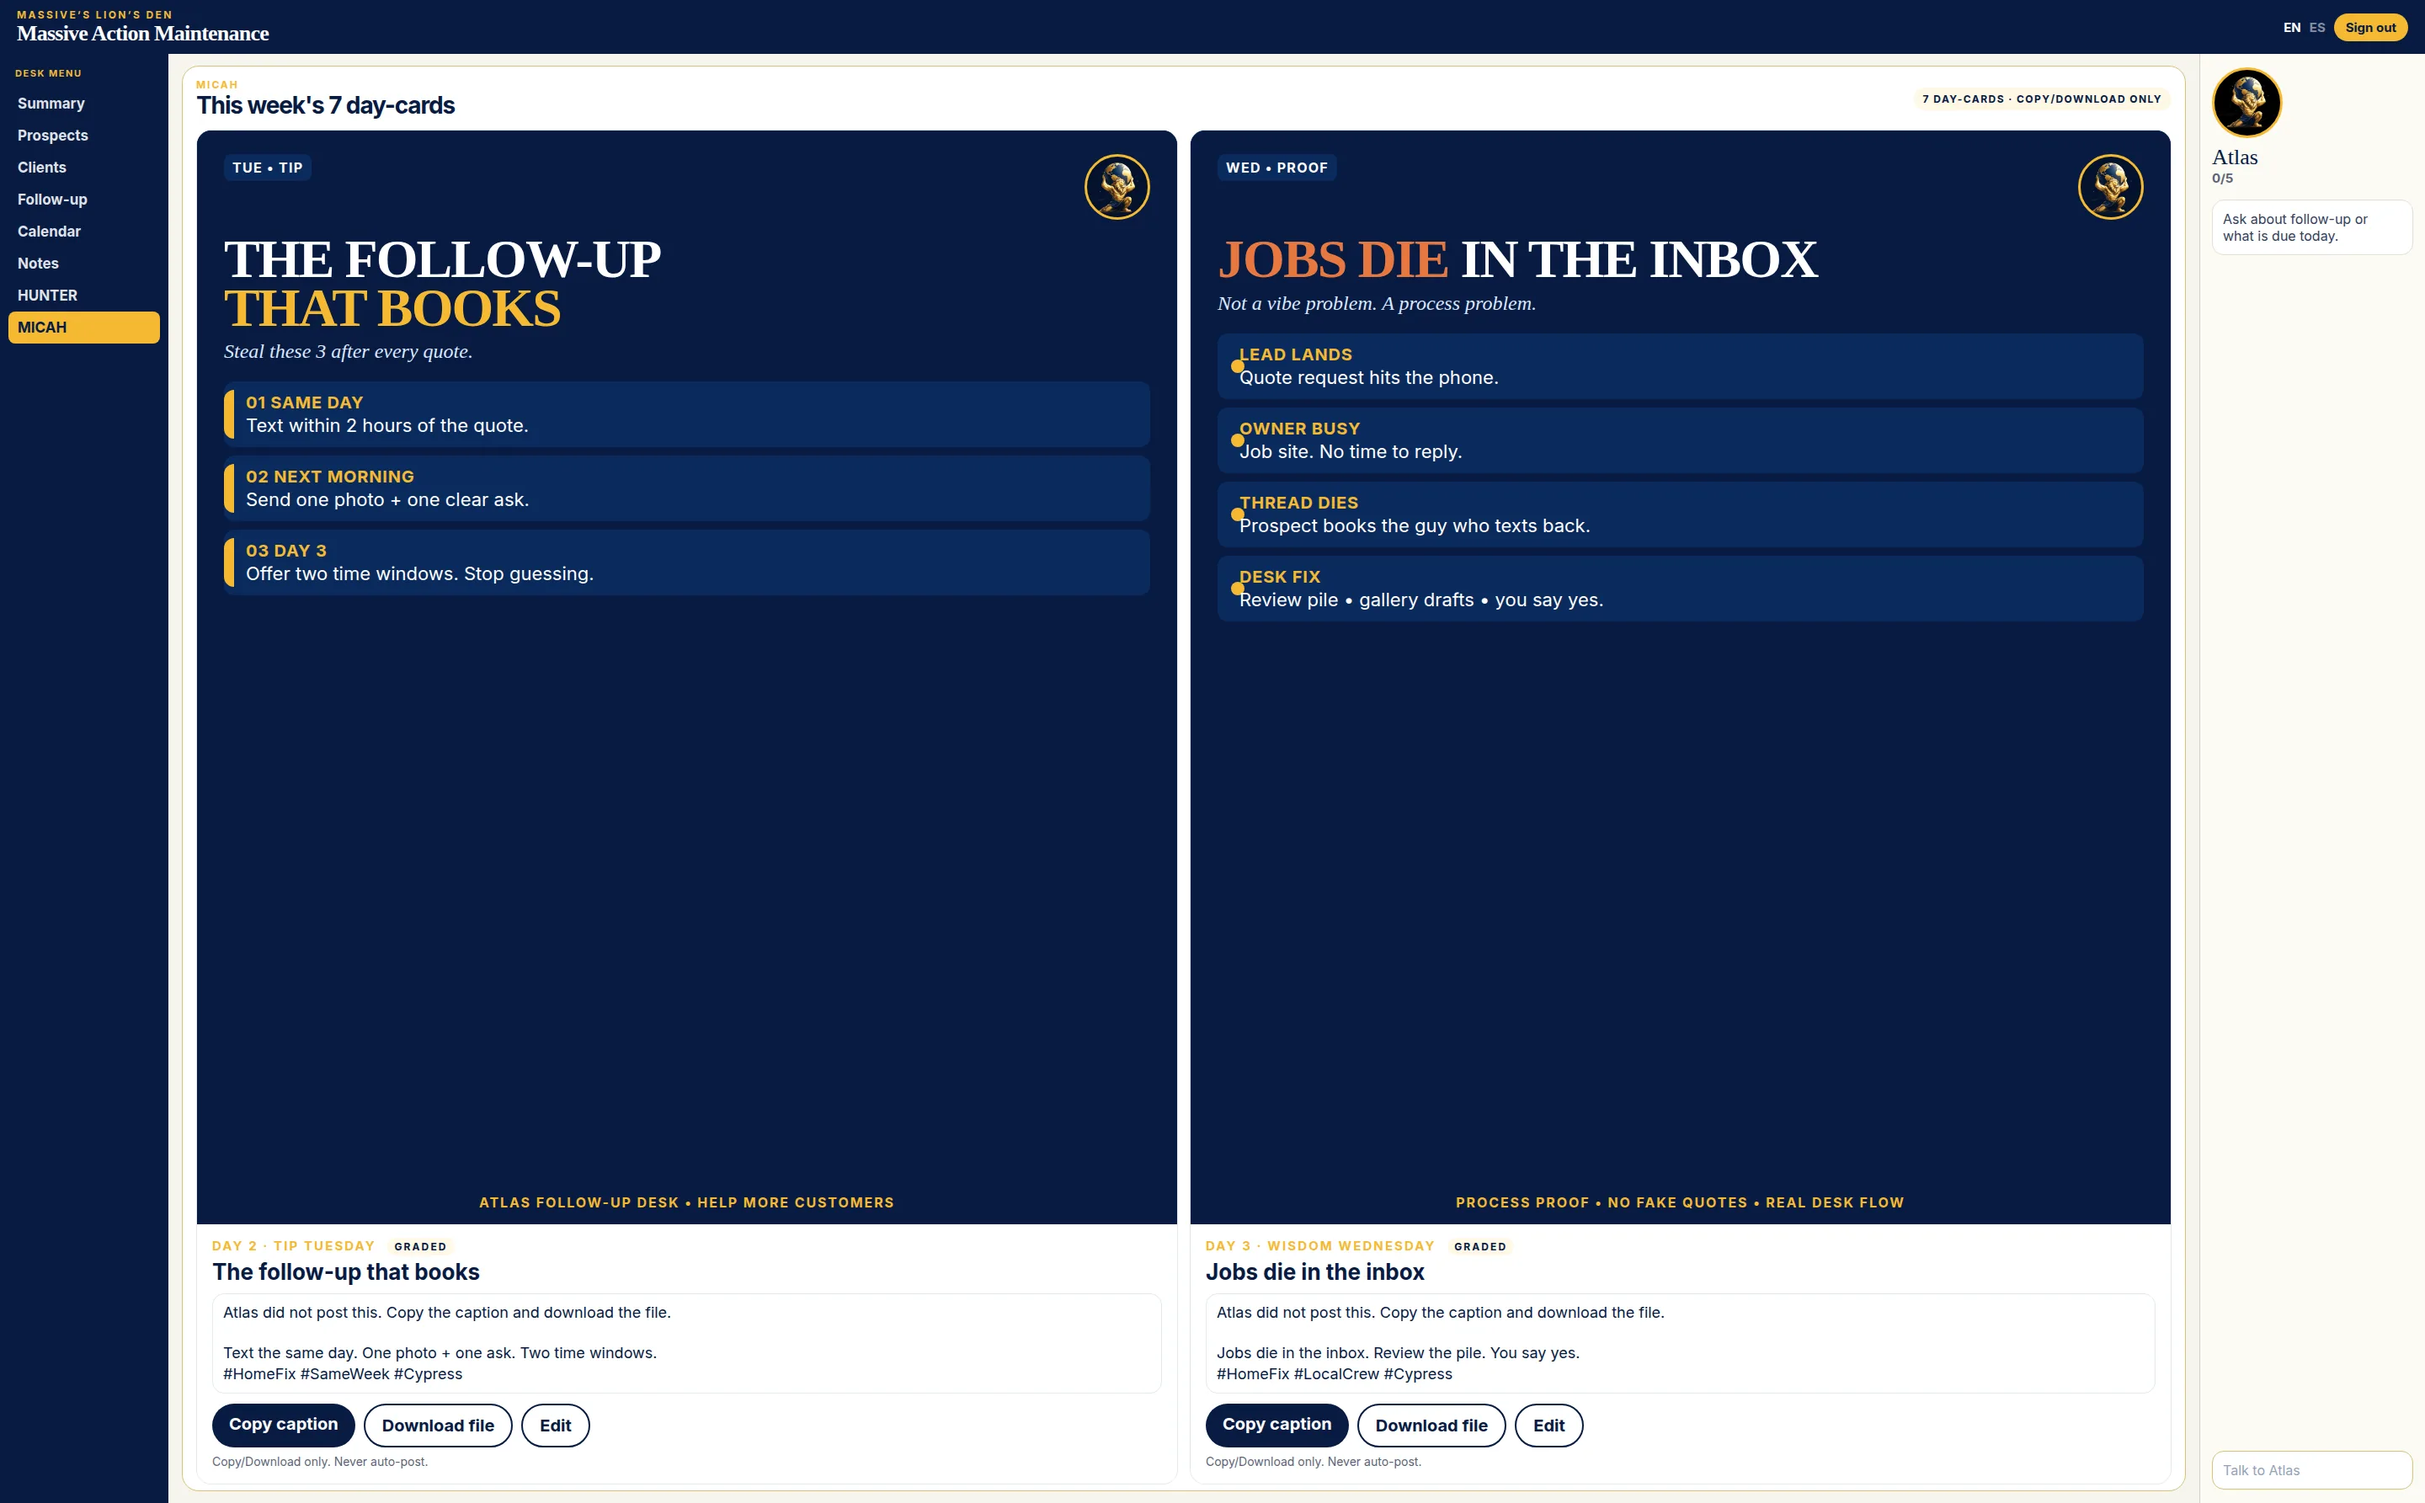
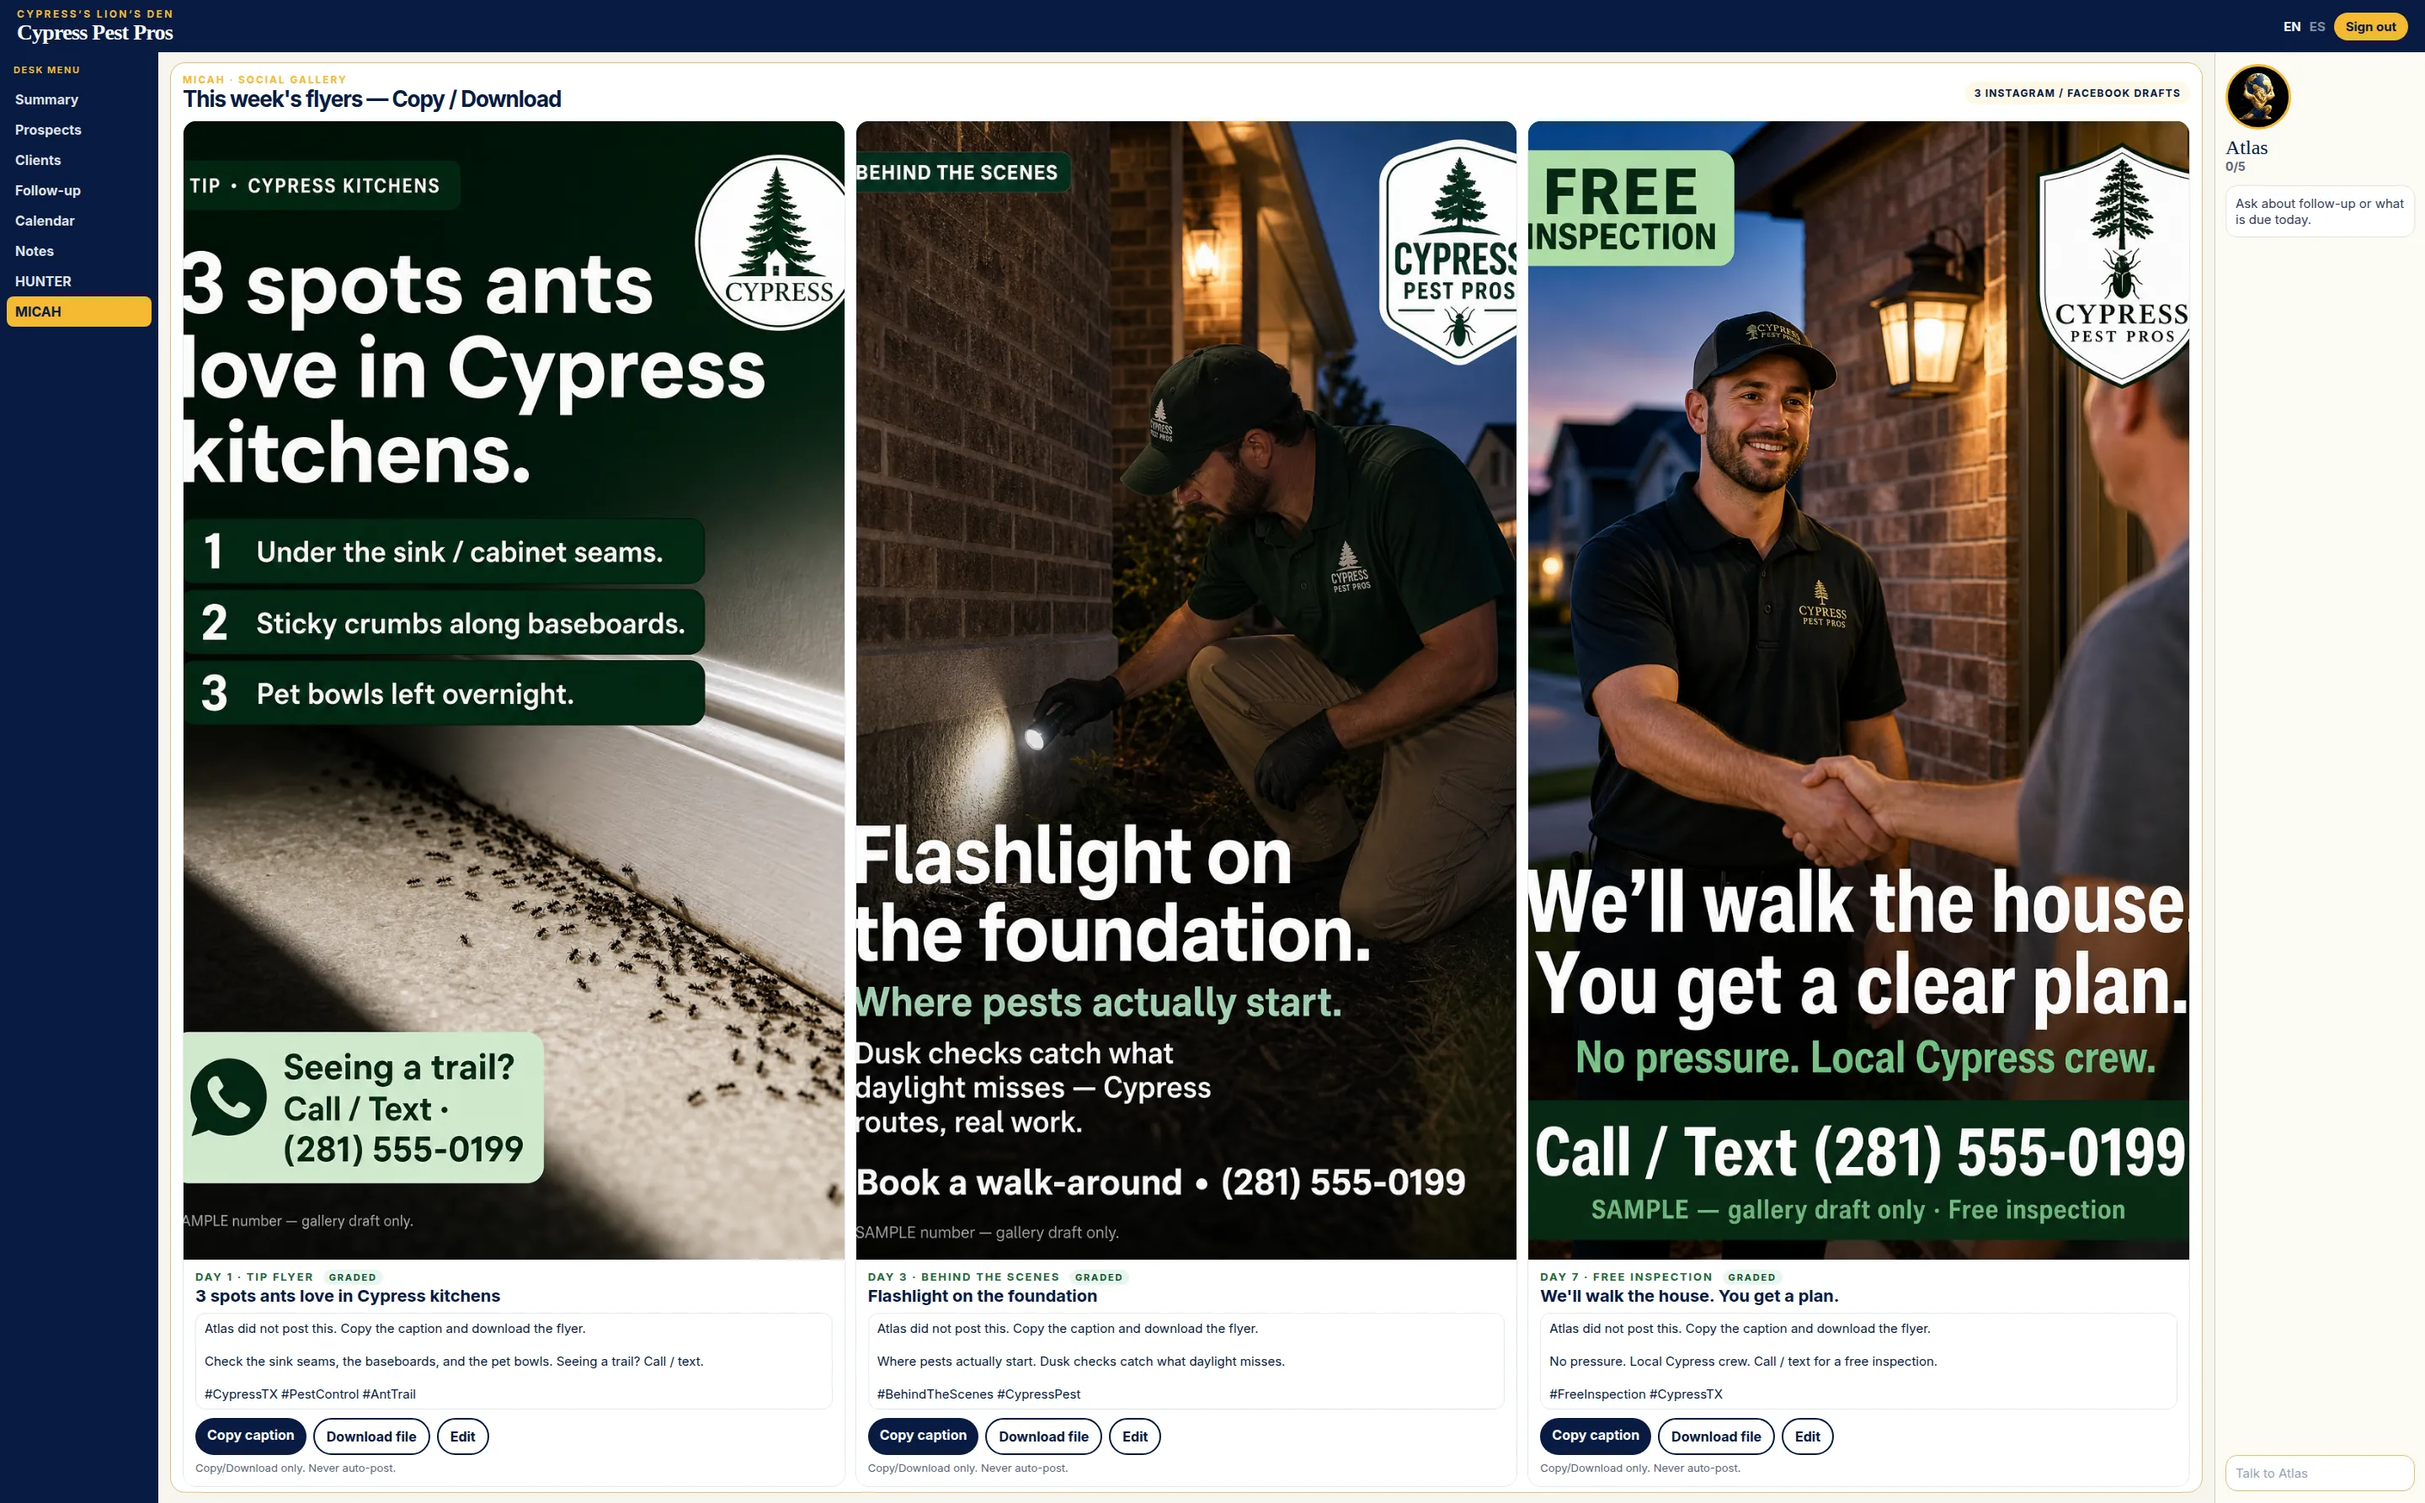
Redo MICAH teaser with Cypress Pest Pros social flyers
Founder hold: the prior still used CRM product tiles. The MICAH card
now frames three vertical Instagram/Facebook flyers (ants tip, foundation
BTS, free inspection) with captions and Copy/Download. HUNTER, Follow-up,
and CLIENT PANEL are unchanged.

diff --git a/src/components/atlas-homepage.test.ts b/src/components/atlas-homepage.test.ts
@@ -55,7 +55,7 @@ test("AFE homepage states Phone AI / Front Desk is later and not live", () => {
   assert.match(homepage, /Phone AI \/ Front Desk is later and not live/);
   assert.match(homepage, /HUNTER[\s\S]*leads to review/);
   assert.match(homepage, /you approve then send/);
-  assert.match(homepage, /gallery drafts only/);
+  assert.match(homepage, /social flyers only/);
   assert.doesNotMatch(homepage, /Phone AI is live|live Phone AI|Front Desk is live/i);
 });
 
@@ -100,11 +100,11 @@ test("AFE homepage shows three desk proof stills near #den without selling live 
   assert.match(stills, /\{still\.name\} — \{still\.label\}/);
   assert.match(homepage, /HUNTER[\s\S]*leads to review/);
   assert.match(homepage, /you approve then send/);
-  assert.match(homepage, /gallery drafts only/);
+  assert.match(homepage, /social flyers only/);
   assert.match(homepage, /Review pile/);
   assert.match(homepage, /Follow-up drafts you approve/);
-  assert.match(homepage, /gallery Copy\/Download/);
-  assert.match(homepage, /Copy caption, Download, and Edit/);
+  assert.match(homepage, /social flyers · Copy\/Download/);
+  assert.match(homepage, /social gallery flyers with captions and Copy caption \/ Download/);
   assert.match(homepage, /hunter-review-pile\.webp/);
   assert.match(homepage, /follow-up-drafts\.webp/);
   assert.match(homepage, /micah-gallery\.webp/);
@@ -113,6 +113,7 @@ test("AFE homepage shows three desk proof stills near #den without selling live 
   assert.doesNotMatch(stills, /HUNTER 7|7 leads|ten finds/i);
   assert.doesNotMatch(stills, /atlas-button gold/);
   assert.doesNotMatch(homepage, /Monday Motivation|Tip Tuesday|Brand Setup empty|empty blue day-cards/i);
+  assert.doesNotMatch(homepage, /THE FOLLOW-UP THAT BOOKS|JOBS DIE IN THE INBOX/);
 
   for (const file of stillFiles) {
     const path = join(root, file);

diff --git a/src/components/atlas-homepage.tsx b/src/components/atlas-homepage.tsx
@@ -155,9 +155,9 @@ const copy: Record<SiteLanguage, LandingCopy> = {
       {
         src: "/marketing/desk-stills/micah-gallery.webp",
         name: "MICAH",
-        label: "gallery drafts only",
-        caption: "gallery Copy/Download",
-        alt: "MICAH gallery drafts with captions and Copy caption, Download, and Edit on the Atlas desk",
+        label: "social flyers only",
+        caption: "social flyers · Copy/Download",
+        alt: "MICAH social gallery flyers with captions and Copy caption / Download — Instagram and Facebook drafts for a local owner",
       },
     ],
     denStillAlt:
@@ -248,9 +248,9 @@ const copy: Record<SiteLanguage, LandingCopy> = {
       {
         src: "/marketing/desk-stills/micah-gallery.webp",
         name: "MICAH",
-        label: "solo borradores de galería",
-        caption: "galería Copiar/Descargar",
-        alt: "Borradores de la galería MICAH con pies de foto y Copiar, Descargar y Editar en el escritorio de Atlas",
+        label: "solo flyers sociales",
+        caption: "flyers sociales · Copiar/Descargar",
+        alt: "Galería social MICAH con flyers, pies de foto y Copiar / Descargar — borradores de Instagram y Facebook para un dueño local",
       },
     ],
     denStillAlt:
